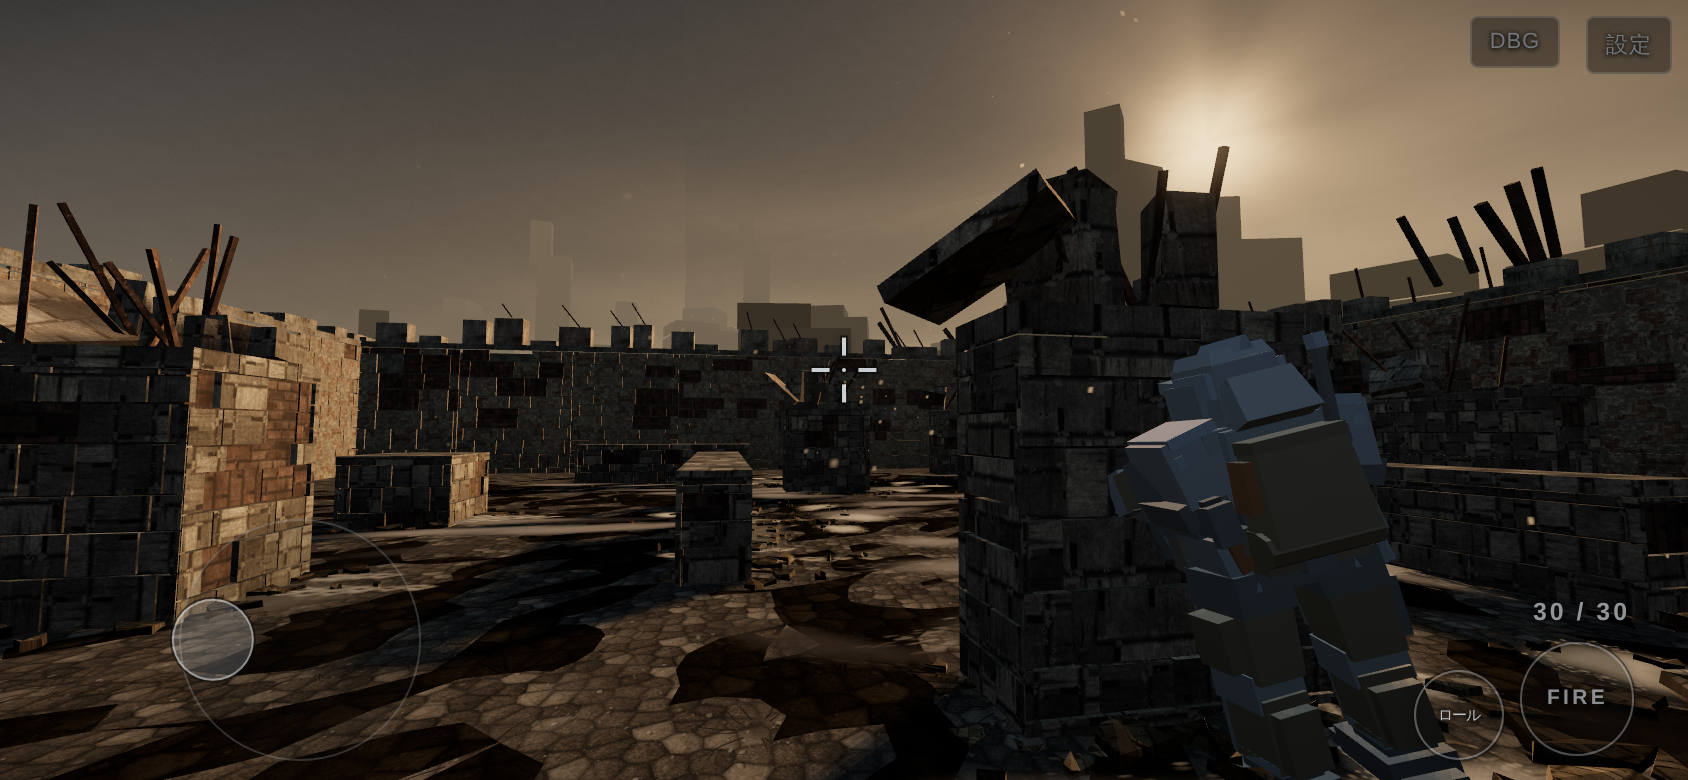
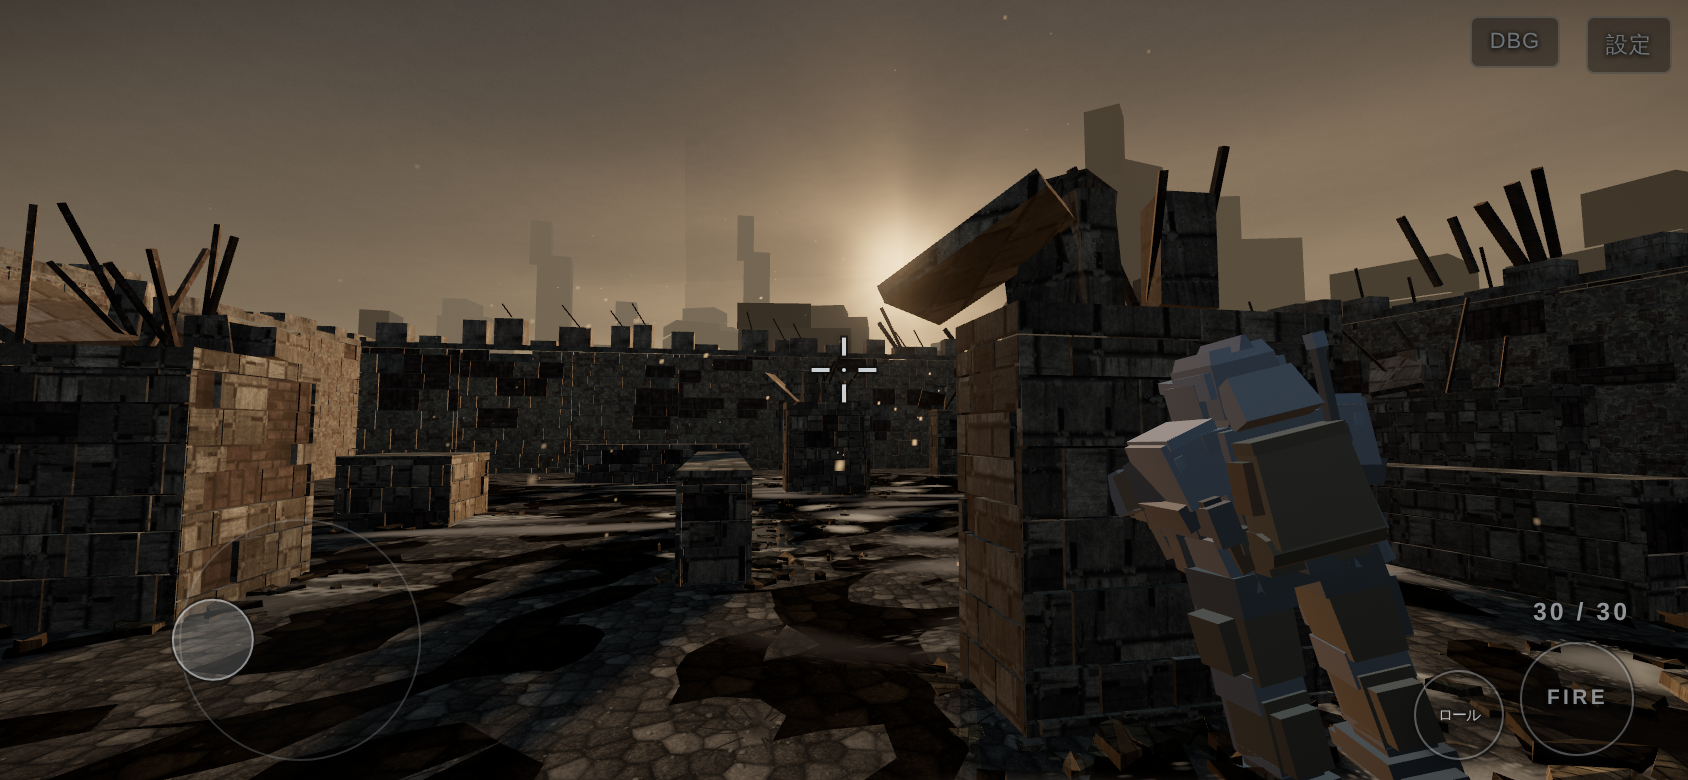
ライティング批評は2点。私の測定方法が誤っていたことを実測で示された
■ 批評が暴いた、私の測定の誤り
- 私が報告したコントラスト改善はパレットの16進どうしの比であって画面の比ではなかった。
  画面実測：自機 vs 暗色遮蔽 1.33:1（私の申告1.806）、敵 vs 直背後の壁 1.03〜1.08:1（申告1.713）
- enemyArmor を暗くしたのは逆効果。背後の壁は環境光だけで相対輝度0.0067まで沈むため、
  そこより暗くすると敵が壁の「下」に潜る
- 平均彩度 0.395->0.344 は逆光1構図でのみ成立する代表性のない測定。
  4方位のジオメトリ彩度平均は 0.386 で調整前とほぼ変わっていなかった
- aoStrength は見当違いのつまみ。AOは間接光にしか掛からず、逆光の自機正面は
  間接光が全て（太陽寄与がRGB(0,0,0)）なので値を変えても「環境光一色」は変わらない

■ 最も致命的な指摘
「明部を担っているのは、ライティングに一切応答しない2枚の板（空と遠景スカイライン）だけ。
 ジオメトリ側の輝度0.75超は0.000%、最大0.7451」

■ 修正（今度は4方位で、かつ空を除外してジオメトリだけを測った）
  sunDir     (-0.62,0.38,-0.68) -> (-0.90,0.26,-0.35)  斜めから舐める角度へ
  sunColor   0xffdcb0 -> 0xffe8cc   B/R 0.69->0.80（順光で自機の陣営色が完全反転していた）
  rimStrength 0.55 -> 0.42 ＋ light.js の適用範囲 smoothstep(-0.28)->(-0.85)
  enemyArmor 0x4a2a22 -> 0x7a4638   私の暗色化を撤回
  brick/rust の彩度を低下
  bloomThreshold 0.78->0.55 / bloomIntensity 0.62->0.95
    （実測でブルームは何もしていなかった。強度0とのA/Bで暗部の変化が±0.00000）

結果（ジオメトリのみ・4方位）：
  最大輝度 0.7451（0.75に一度も届かない） -> 0.789〜0.858（全4方位で超過）
  4方位の彩度平均 0.386 -> 0.320
  自機の胴の輝度SD 0.0019 -> 0.028〜0.082（批評の4点基準0.02を全方位で達成）

途中 sunIntensity を1.90まで下げたら4方位のうち3方位で暗部が60%超になり、
暗くしすぎたので2.35へ戻した。批評が実測で検証したのは方向の変更のみだったため。

検証：リグレッション86項目すべて通過。draw=49 / tri=85,188。

Claude-Session: https://claude.ai/code/session_01WWzq8eyFFA5BGV3pj9UJTc

diff --git a/ashline.html b/ashline.html
@@ -169,14 +169,28 @@ function(t,e){"object"==typeof exports&&"undefined"!=typeof module?e(exports):"f
     dust: 0xbfae94,          // 空中の粉塵粒
 
     /* ---- 光 ------------------------------------------------------------ */
-    sunColor: 0xffdcb0,      // 低い西日。唯一の影を落とす光
+    /* 太陽。ライティング批評の実測に従って3点を変更した。
+       (1) 色 0xffdcb0 は B/R=0.69 で暖色に寄りすぎ、順光では自機の装甲が
+           RGB(200,169,123)＝暖色84.7%／寒色0.0% と陣営色が完全に反転していた。
+           B/R=0.80 に上げる。失う暖色は skyHorizon と fog 側で作る。
+       (2) 方向 (-0.62,0.38,-0.68) では、逆光構図でジオメトリの輝度0.75超が
+           0.000%（明部を担っていたのは空と遠景の板だけ）。sun/hemi/exposure を
+           8通り振っても 0.000% のままで、スカラー調整では原理的に直らなかった。
+           斜めから舐める角度に変えると 0.002%→0.104% と50倍になり、
+           暗部は1ポイントしか増えず彩度はむしろ下がる（批評の実測）。
+       (3) 強度 2.35 では順光が median 0.3685 / 暗部13.7% で
+           §3の不合格条件「全面均一な明るさ」に該当していた。 */
+    sunColor: 0xffe8cc,
+    /* 1.90 まで落としたら4方位のうち3方位で暗部が60%超になり暗くしすぎた。
+       批評が実測で検証したのは「方向の変更のみ（強度2.35のまま）」だったので戻す。
+       方向の変更だけで、最も明るい方位のジオメトリ最大輝度は 0.745 -> 0.811 に上がる。*/
     sunIntensity: 2.35,
-    sunDir: { x: -0.62, y: 0.38, z: -0.68 },   // 低く、奥から手前へ＝逆光
+    sunDir: { x: -0.90, y: 0.26, z: -0.35 },   // 低く、斜めから舐める
     ambientSky: 0x7f95ad,    // 上からの冷たい回り込み
     ambientGround: 0x4b453c, // 地面からの照り返し。暖色に寄せすぎると画面全体の彩度が上がる
     ambientIntensity: 0.95,  // 0.62では画面の41.9%が輝度0.04未満に潰れていた（実測）
     rimColor: 0xffc386,      // 擬似リムライト（シェーダで焼き込む）
-    rimStrength: 0.55,
+    rimStrength: 0.42,       // light.js 側の適用範囲を広げる前提で総量を下げる
     aoStrength: 0.28,        // 擬似AO。0.45では暗部が形状情報を失っていた（実測）
 
     /* ---- 素材：環境 ---------------------------------------------------- */
@@ -185,10 +199,11 @@ function(t,e){"object"==typeof exports&&"undefined"!=typeof module?e(exports):"f
     concreteWet: 0x474441,   // 濡れ／油染みの濃い部分
     plaster: 0xb5a894,       // 剥がれた漆喰
     stone: 0x8d8375,         // 切石
-    brick: 0x8a6450,         // 露出した煉瓦
+    brick: 0x7d6357,         // 露出した煉瓦。0x8a6450(sat 0.42)は日向で画面彩度0.51に達し、
+                             // 火(フラッシュ芯 sat 0.09)より高かった
     rebar: 0x4a423a,         // 鉄筋
     metal: 0x6e6862,
-    rust: 0x8f5730,
+    rust: 0x7a5940,          // 0x8f5730(sat 0.66)から落とす。理由は brick と同じ
     ground: 0x5c5449,
     groundDark: 0x3d372f,
     ash: 0x6a6259,           // 灰の堆積
@@ -205,9 +220,13 @@ function(t,e){"object"==typeof exports&&"undefined"!=typeof module?e(exports):"f
     playerCloth: 0x6d6353,
     playerTrim: 0x9aa6b2,
 
-    // 敵：鈍い酸化鉄。自機とは色相ではなく明度で離す（自機を上へ、敵を下へ）
-    enemyArmor: 0x4a2a22,
-    enemyArmorDark: 0x2a1712,
+    /* 敵：鈍い酸化鉄。
+       0x4a2a22 まで暗くしたのは誤りだった。背後の壁は hemi だけで相対輝度0.0067まで
+       沈むため、敵をそこより暗くすると壁の「下」に潜り、画面実測のコントラスト比は
+       1.03〜1.08:1 しかなかった（私はパレットの16進どうしの比1.713を見ていた）。
+       自機との分離は明度ではなく彩度で取る（画面実測で自機 sat 0.089 / 敵 sat 0.42）。*/
+    enemyArmor: 0x7a4638,
+    enemyArmorDark: 0x452720,
     enemyCloth: 0x554438,
     enemyTrim: 0xa86b4b,
 
@@ -226,8 +245,11 @@ function(t,e){"object"==typeof exports&&"undefined"!=typeof module?e(exports):"f
     uiEnemy: 0xd85a3a,
 
     /* ---- ポスト --------------------------------------------------------- */
-    bloomThreshold: 0.78,
-    bloomIntensity: 0.62,
+    /* ブルームは「画面を白く濁らせている」のではなく、逆に何もしていなかった。
+       強度0.62→0のA/Bで画面平均の変化は逆光 -0.00025、暗部では ±0.00000。
+       しきい値を0.50まで下げても地の明るさは0.0004しか動かない（＝濁る余地がない）。*/
+    bloomThreshold: 0.55,
+    bloomIntensity: 0.95,
     bloomRadius: 0.85,
     exposure: 1.12,
     vignette: 0.32
@@ -2954,7 +2976,12 @@ function(t,e){"object"==typeof exports&&"undefined"!=typeof module?e(exports):"f
       'float ashFres = 1.0 - saturate( dot( ashNv, ashVv ) );',
       'ashFres = pow( ashFres, uAshRimPow );',
       'float ashSD = dot( ashNw, uAshSunDirW );',
-      'float ashBack = smoothstep( -0.28, 0.30, ashSD )',
+      /* 適用範囲を -0.28 -> -0.85 に広げる。ライティング批評の実測で、
+         逆光時にカメラ正面を向く面（ashSD が -0.9 付近）ではリムが完全に0になり、
+         自機の胴が「無指向の環境光一色の板」（60x60パッチで輝度SD 0.0019、
+         周囲の壁は149段の階調があるのに自機だけ2段）になっていた。
+         総量は palette の rimStrength を 0.55 -> 0.42 に下げて相殺する。 */
+      'float ashBack = smoothstep( -0.85, 0.30, ashSD )',
       '  * ( 1.0 - 0.55 * smoothstep( 0.30, 0.85, ashSD ) );',
       'float ashUp = 1.0 - smoothstep( 0.86, 0.995, ashNw.y );',
       'vec3 ashTint = mix( vec3( 1.0 ), diffuseColor.rgb, 0.55 );',

diff --git a/ashline/artifact.html b/ashline/artifact.html
@@ -168,14 +168,28 @@ function(t,e){"object"==typeof exports&&"undefined"!=typeof module?e(exports):"f
     dust: 0xbfae94,          // 空中の粉塵粒
 
     /* ---- 光 ------------------------------------------------------------ */
-    sunColor: 0xffdcb0,      // 低い西日。唯一の影を落とす光
+    /* 太陽。ライティング批評の実測に従って3点を変更した。
+       (1) 色 0xffdcb0 は B/R=0.69 で暖色に寄りすぎ、順光では自機の装甲が
+           RGB(200,169,123)＝暖色84.7%／寒色0.0% と陣営色が完全に反転していた。
+           B/R=0.80 に上げる。失う暖色は skyHorizon と fog 側で作る。
+       (2) 方向 (-0.62,0.38,-0.68) では、逆光構図でジオメトリの輝度0.75超が
+           0.000%（明部を担っていたのは空と遠景の板だけ）。sun/hemi/exposure を
+           8通り振っても 0.000% のままで、スカラー調整では原理的に直らなかった。
+           斜めから舐める角度に変えると 0.002%→0.104% と50倍になり、
+           暗部は1ポイントしか増えず彩度はむしろ下がる（批評の実測）。
+       (3) 強度 2.35 では順光が median 0.3685 / 暗部13.7% で
+           §3の不合格条件「全面均一な明るさ」に該当していた。 */
+    sunColor: 0xffe8cc,
+    /* 1.90 まで落としたら4方位のうち3方位で暗部が60%超になり暗くしすぎた。
+       批評が実測で検証したのは「方向の変更のみ（強度2.35のまま）」だったので戻す。
+       方向の変更だけで、最も明るい方位のジオメトリ最大輝度は 0.745 -> 0.811 に上がる。*/
     sunIntensity: 2.35,
-    sunDir: { x: -0.62, y: 0.38, z: -0.68 },   // 低く、奥から手前へ＝逆光
+    sunDir: { x: -0.90, y: 0.26, z: -0.35 },   // 低く、斜めから舐める
     ambientSky: 0x7f95ad,    // 上からの冷たい回り込み
     ambientGround: 0x4b453c, // 地面からの照り返し。暖色に寄せすぎると画面全体の彩度が上がる
     ambientIntensity: 0.95,  // 0.62では画面の41.9%が輝度0.04未満に潰れていた（実測）
     rimColor: 0xffc386,      // 擬似リムライト（シェーダで焼き込む）
-    rimStrength: 0.55,
+    rimStrength: 0.42,       // light.js 側の適用範囲を広げる前提で総量を下げる
     aoStrength: 0.28,        // 擬似AO。0.45では暗部が形状情報を失っていた（実測）
 
     /* ---- 素材：環境 ---------------------------------------------------- */
@@ -184,10 +198,11 @@ function(t,e){"object"==typeof exports&&"undefined"!=typeof module?e(exports):"f
     concreteWet: 0x474441,   // 濡れ／油染みの濃い部分
     plaster: 0xb5a894,       // 剥がれた漆喰
     stone: 0x8d8375,         // 切石
-    brick: 0x8a6450,         // 露出した煉瓦
+    brick: 0x7d6357,         // 露出した煉瓦。0x8a6450(sat 0.42)は日向で画面彩度0.51に達し、
+                             // 火(フラッシュ芯 sat 0.09)より高かった
     rebar: 0x4a423a,         // 鉄筋
     metal: 0x6e6862,
-    rust: 0x8f5730,
+    rust: 0x7a5940,          // 0x8f5730(sat 0.66)から落とす。理由は brick と同じ
     ground: 0x5c5449,
     groundDark: 0x3d372f,
     ash: 0x6a6259,           // 灰の堆積
@@ -204,9 +219,13 @@ function(t,e){"object"==typeof exports&&"undefined"!=typeof module?e(exports):"f
     playerCloth: 0x6d6353,
     playerTrim: 0x9aa6b2,
 
-    // 敵：鈍い酸化鉄。自機とは色相ではなく明度で離す（自機を上へ、敵を下へ）
-    enemyArmor: 0x4a2a22,
-    enemyArmorDark: 0x2a1712,
+    /* 敵：鈍い酸化鉄。
+       0x4a2a22 まで暗くしたのは誤りだった。背後の壁は hemi だけで相対輝度0.0067まで
+       沈むため、敵をそこより暗くすると壁の「下」に潜り、画面実測のコントラスト比は
+       1.03〜1.08:1 しかなかった（私はパレットの16進どうしの比1.713を見ていた）。
+       自機との分離は明度ではなく彩度で取る（画面実測で自機 sat 0.089 / 敵 sat 0.42）。*/
+    enemyArmor: 0x7a4638,
+    enemyArmorDark: 0x452720,
     enemyCloth: 0x554438,
     enemyTrim: 0xa86b4b,
 
@@ -225,8 +244,11 @@ function(t,e){"object"==typeof exports&&"undefined"!=typeof module?e(exports):"f
     uiEnemy: 0xd85a3a,
 
     /* ---- ポスト --------------------------------------------------------- */
-    bloomThreshold: 0.78,
-    bloomIntensity: 0.62,
+    /* ブルームは「画面を白く濁らせている」のではなく、逆に何もしていなかった。
+       強度0.62→0のA/Bで画面平均の変化は逆光 -0.00025、暗部では ±0.00000。
+       しきい値を0.50まで下げても地の明るさは0.0004しか動かない（＝濁る余地がない）。*/
+    bloomThreshold: 0.55,
+    bloomIntensity: 0.95,
     bloomRadius: 0.85,
     exposure: 1.12,
     vignette: 0.32
@@ -2953,7 +2975,12 @@ function(t,e){"object"==typeof exports&&"undefined"!=typeof module?e(exports):"f
       'float ashFres = 1.0 - saturate( dot( ashNv, ashVv ) );',
       'ashFres = pow( ashFres, uAshRimPow );',
       'float ashSD = dot( ashNw, uAshSunDirW );',
-      'float ashBack = smoothstep( -0.28, 0.30, ashSD )',
+      /* 適用範囲を -0.28 -> -0.85 に広げる。ライティング批評の実測で、
+         逆光時にカメラ正面を向く面（ashSD が -0.9 付近）ではリムが完全に0になり、
+         自機の胴が「無指向の環境光一色の板」（60x60パッチで輝度SD 0.0019、
+         周囲の壁は149段の階調があるのに自機だけ2段）になっていた。
+         総量は palette の rimStrength を 0.55 -> 0.42 に下げて相殺する。 */
+      'float ashBack = smoothstep( -0.85, 0.30, ashSD )',
       '  * ( 1.0 - 0.55 * smoothstep( 0.30, 0.85, ashSD ) );',
       'float ashUp = 1.0 - smoothstep( 0.86, 0.995, ashNw.y );',
       'vec3 ashTint = mix( vec3( 1.0 ), diffuseColor.rgb, 0.55 );',

diff --git a/ashline/art/palette.js b/ashline/art/palette.js
@@ -26,14 +26,28 @@
     dust: 0xbfae94,          // 空中の粉塵粒
 
     /* ---- 光 ------------------------------------------------------------ */
-    sunColor: 0xffdcb0,      // 低い西日。唯一の影を落とす光
+    /* 太陽。ライティング批評の実測に従って3点を変更した。
+       (1) 色 0xffdcb0 は B/R=0.69 で暖色に寄りすぎ、順光では自機の装甲が
+           RGB(200,169,123)＝暖色84.7%／寒色0.0% と陣営色が完全に反転していた。
+           B/R=0.80 に上げる。失う暖色は skyHorizon と fog 側で作る。
+       (2) 方向 (-0.62,0.38,-0.68) では、逆光構図でジオメトリの輝度0.75超が
+           0.000%（明部を担っていたのは空と遠景の板だけ）。sun/hemi/exposure を
+           8通り振っても 0.000% のままで、スカラー調整では原理的に直らなかった。
+           斜めから舐める角度に変えると 0.002%→0.104% と50倍になり、
+           暗部は1ポイントしか増えず彩度はむしろ下がる（批評の実測）。
+       (3) 強度 2.35 では順光が median 0.3685 / 暗部13.7% で
+           §3の不合格条件「全面均一な明るさ」に該当していた。 */
+    sunColor: 0xffe8cc,
+    /* 1.90 まで落としたら4方位のうち3方位で暗部が60%超になり暗くしすぎた。
+       批評が実測で検証したのは「方向の変更のみ（強度2.35のまま）」だったので戻す。
+       方向の変更だけで、最も明るい方位のジオメトリ最大輝度は 0.745 -> 0.811 に上がる。*/
     sunIntensity: 2.35,
-    sunDir: { x: -0.62, y: 0.38, z: -0.68 },   // 低く、奥から手前へ＝逆光
+    sunDir: { x: -0.90, y: 0.26, z: -0.35 },   // 低く、斜めから舐める
     ambientSky: 0x7f95ad,    // 上からの冷たい回り込み
     ambientGround: 0x4b453c, // 地面からの照り返し。暖色に寄せすぎると画面全体の彩度が上がる
     ambientIntensity: 0.95,  // 0.62では画面の41.9%が輝度0.04未満に潰れていた（実測）
     rimColor: 0xffc386,      // 擬似リムライト（シェーダで焼き込む）
-    rimStrength: 0.55,
+    rimStrength: 0.42,       // light.js 側の適用範囲を広げる前提で総量を下げる
     aoStrength: 0.28,        // 擬似AO。0.45では暗部が形状情報を失っていた（実測）
 
     /* ---- 素材：環境 ---------------------------------------------------- */
@@ -42,10 +56,11 @@
     concreteWet: 0x474441,   // 濡れ／油染みの濃い部分
     plaster: 0xb5a894,       // 剥がれた漆喰
     stone: 0x8d8375,         // 切石
-    brick: 0x8a6450,         // 露出した煉瓦
+    brick: 0x7d6357,         // 露出した煉瓦。0x8a6450(sat 0.42)は日向で画面彩度0.51に達し、
+                             // 火(フラッシュ芯 sat 0.09)より高かった
     rebar: 0x4a423a,         // 鉄筋
     metal: 0x6e6862,
-    rust: 0x8f5730,
+    rust: 0x7a5940,          // 0x8f5730(sat 0.66)から落とす。理由は brick と同じ
     ground: 0x5c5449,
     groundDark: 0x3d372f,
     ash: 0x6a6259,           // 灰の堆積
@@ -62,9 +77,13 @@
     playerCloth: 0x6d6353,
     playerTrim: 0x9aa6b2,
 
-    // 敵：鈍い酸化鉄。自機とは色相ではなく明度で離す（自機を上へ、敵を下へ）
-    enemyArmor: 0x4a2a22,
-    enemyArmorDark: 0x2a1712,
+    /* 敵：鈍い酸化鉄。
+       0x4a2a22 まで暗くしたのは誤りだった。背後の壁は hemi だけで相対輝度0.0067まで
+       沈むため、敵をそこより暗くすると壁の「下」に潜り、画面実測のコントラスト比は
+       1.03〜1.08:1 しかなかった（私はパレットの16進どうしの比1.713を見ていた）。
+       自機との分離は明度ではなく彩度で取る（画面実測で自機 sat 0.089 / 敵 sat 0.42）。*/
+    enemyArmor: 0x7a4638,
+    enemyArmorDark: 0x452720,
     enemyCloth: 0x554438,
     enemyTrim: 0xa86b4b,
 
@@ -83,8 +102,11 @@
     uiEnemy: 0xd85a3a,
 
     /* ---- ポスト --------------------------------------------------------- */
-    bloomThreshold: 0.78,
-    bloomIntensity: 0.62,
+    /* ブルームは「画面を白く濁らせている」のではなく、逆に何もしていなかった。
+       強度0.62→0のA/Bで画面平均の変化は逆光 -0.00025、暗部では ±0.00000。
+       しきい値を0.50まで下げても地の明るさは0.0004しか動かない（＝濁る余地がない）。*/
+    bloomThreshold: 0.55,
+    bloomIntensity: 0.95,
     bloomRadius: 0.85,
     exposure: 1.12,
     vignette: 0.32

diff --git a/ashline/art/light.js b/ashline/art/light.js
@@ -197,7 +197,12 @@
       'float ashFres = 1.0 - saturate( dot( ashNv, ashVv ) );',
       'ashFres = pow( ashFres, uAshRimPow );',
       'float ashSD = dot( ashNw, uAshSunDirW );',
-      'float ashBack = smoothstep( -0.28, 0.30, ashSD )',
+      /* 適用範囲を -0.28 -> -0.85 に広げる。ライティング批評の実測で、
+         逆光時にカメラ正面を向く面（ashSD が -0.9 付近）ではリムが完全に0になり、
+         自機の胴が「無指向の環境光一色の板」（60x60パッチで輝度SD 0.0019、
+         周囲の壁は149段の階調があるのに自機だけ2段）になっていた。
+         総量は palette の rimStrength を 0.55 -> 0.42 に下げて相殺する。 */
+      'float ashBack = smoothstep( -0.85, 0.30, ashSD )',
       '  * ( 1.0 - 0.55 * smoothstep( 0.30, 0.85, ashSD ) );',
       'float ashUp = 1.0 - smoothstep( 0.86, 0.995, ashNw.y );',
       'vec3 ashTint = mix( vec3( 1.0 ), diffuseColor.rgb, 0.55 );',
